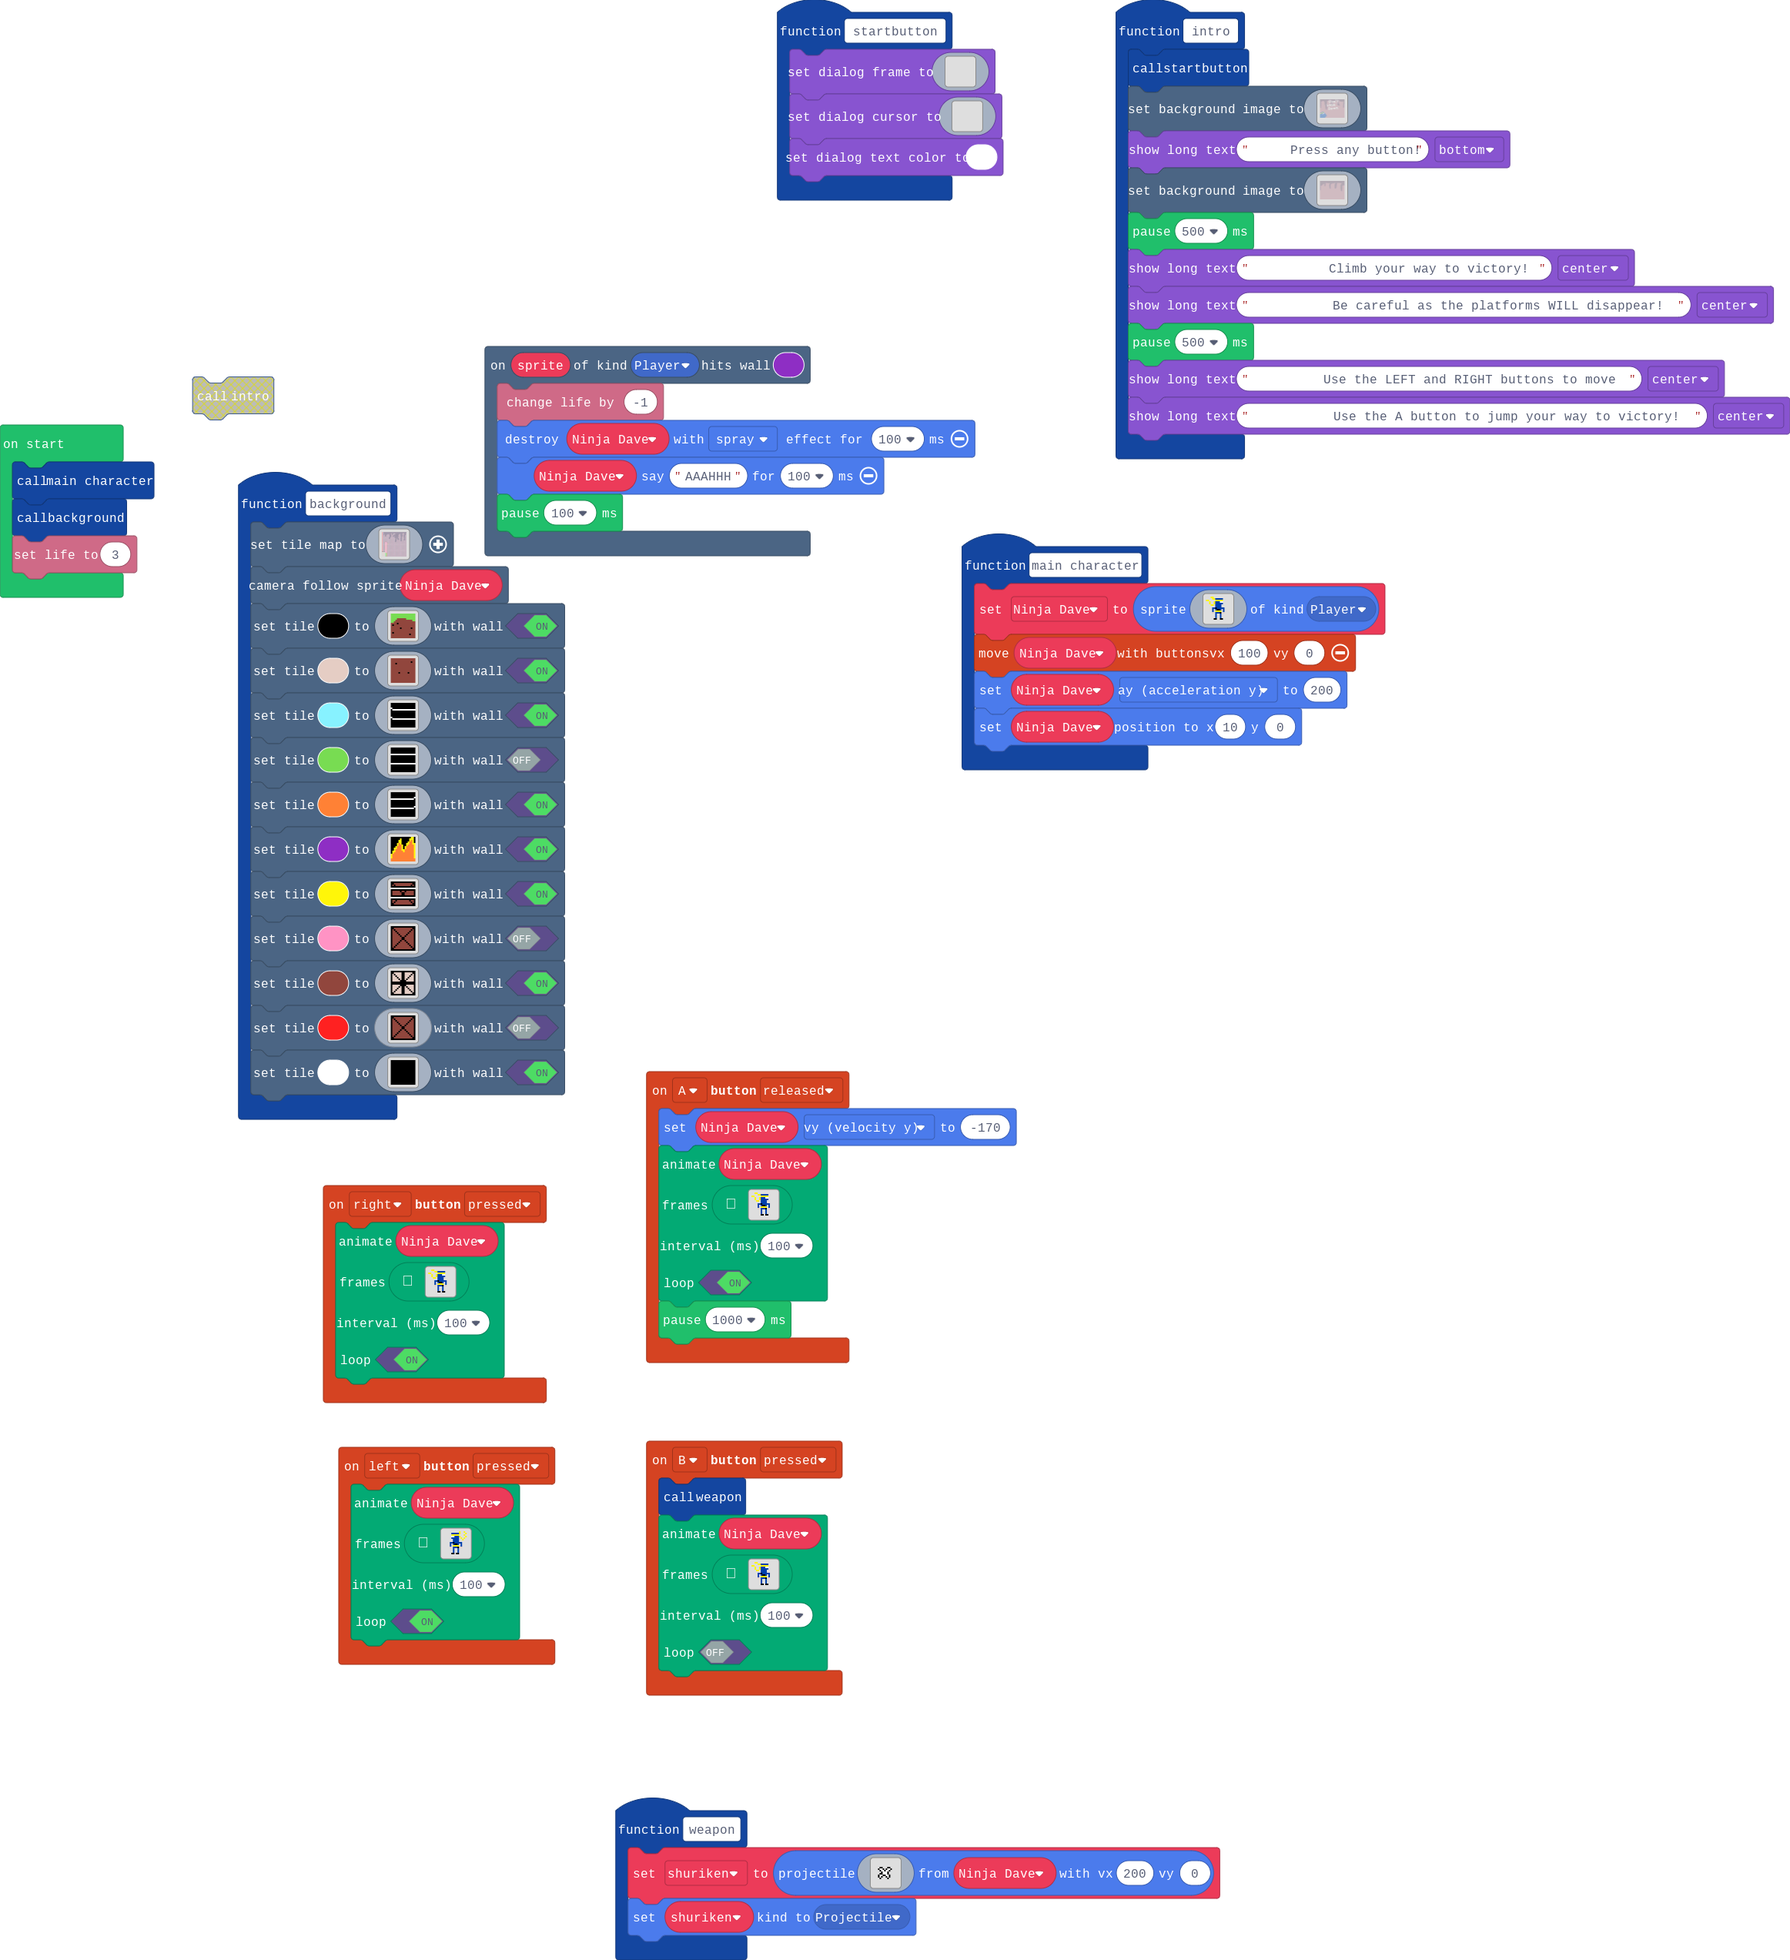
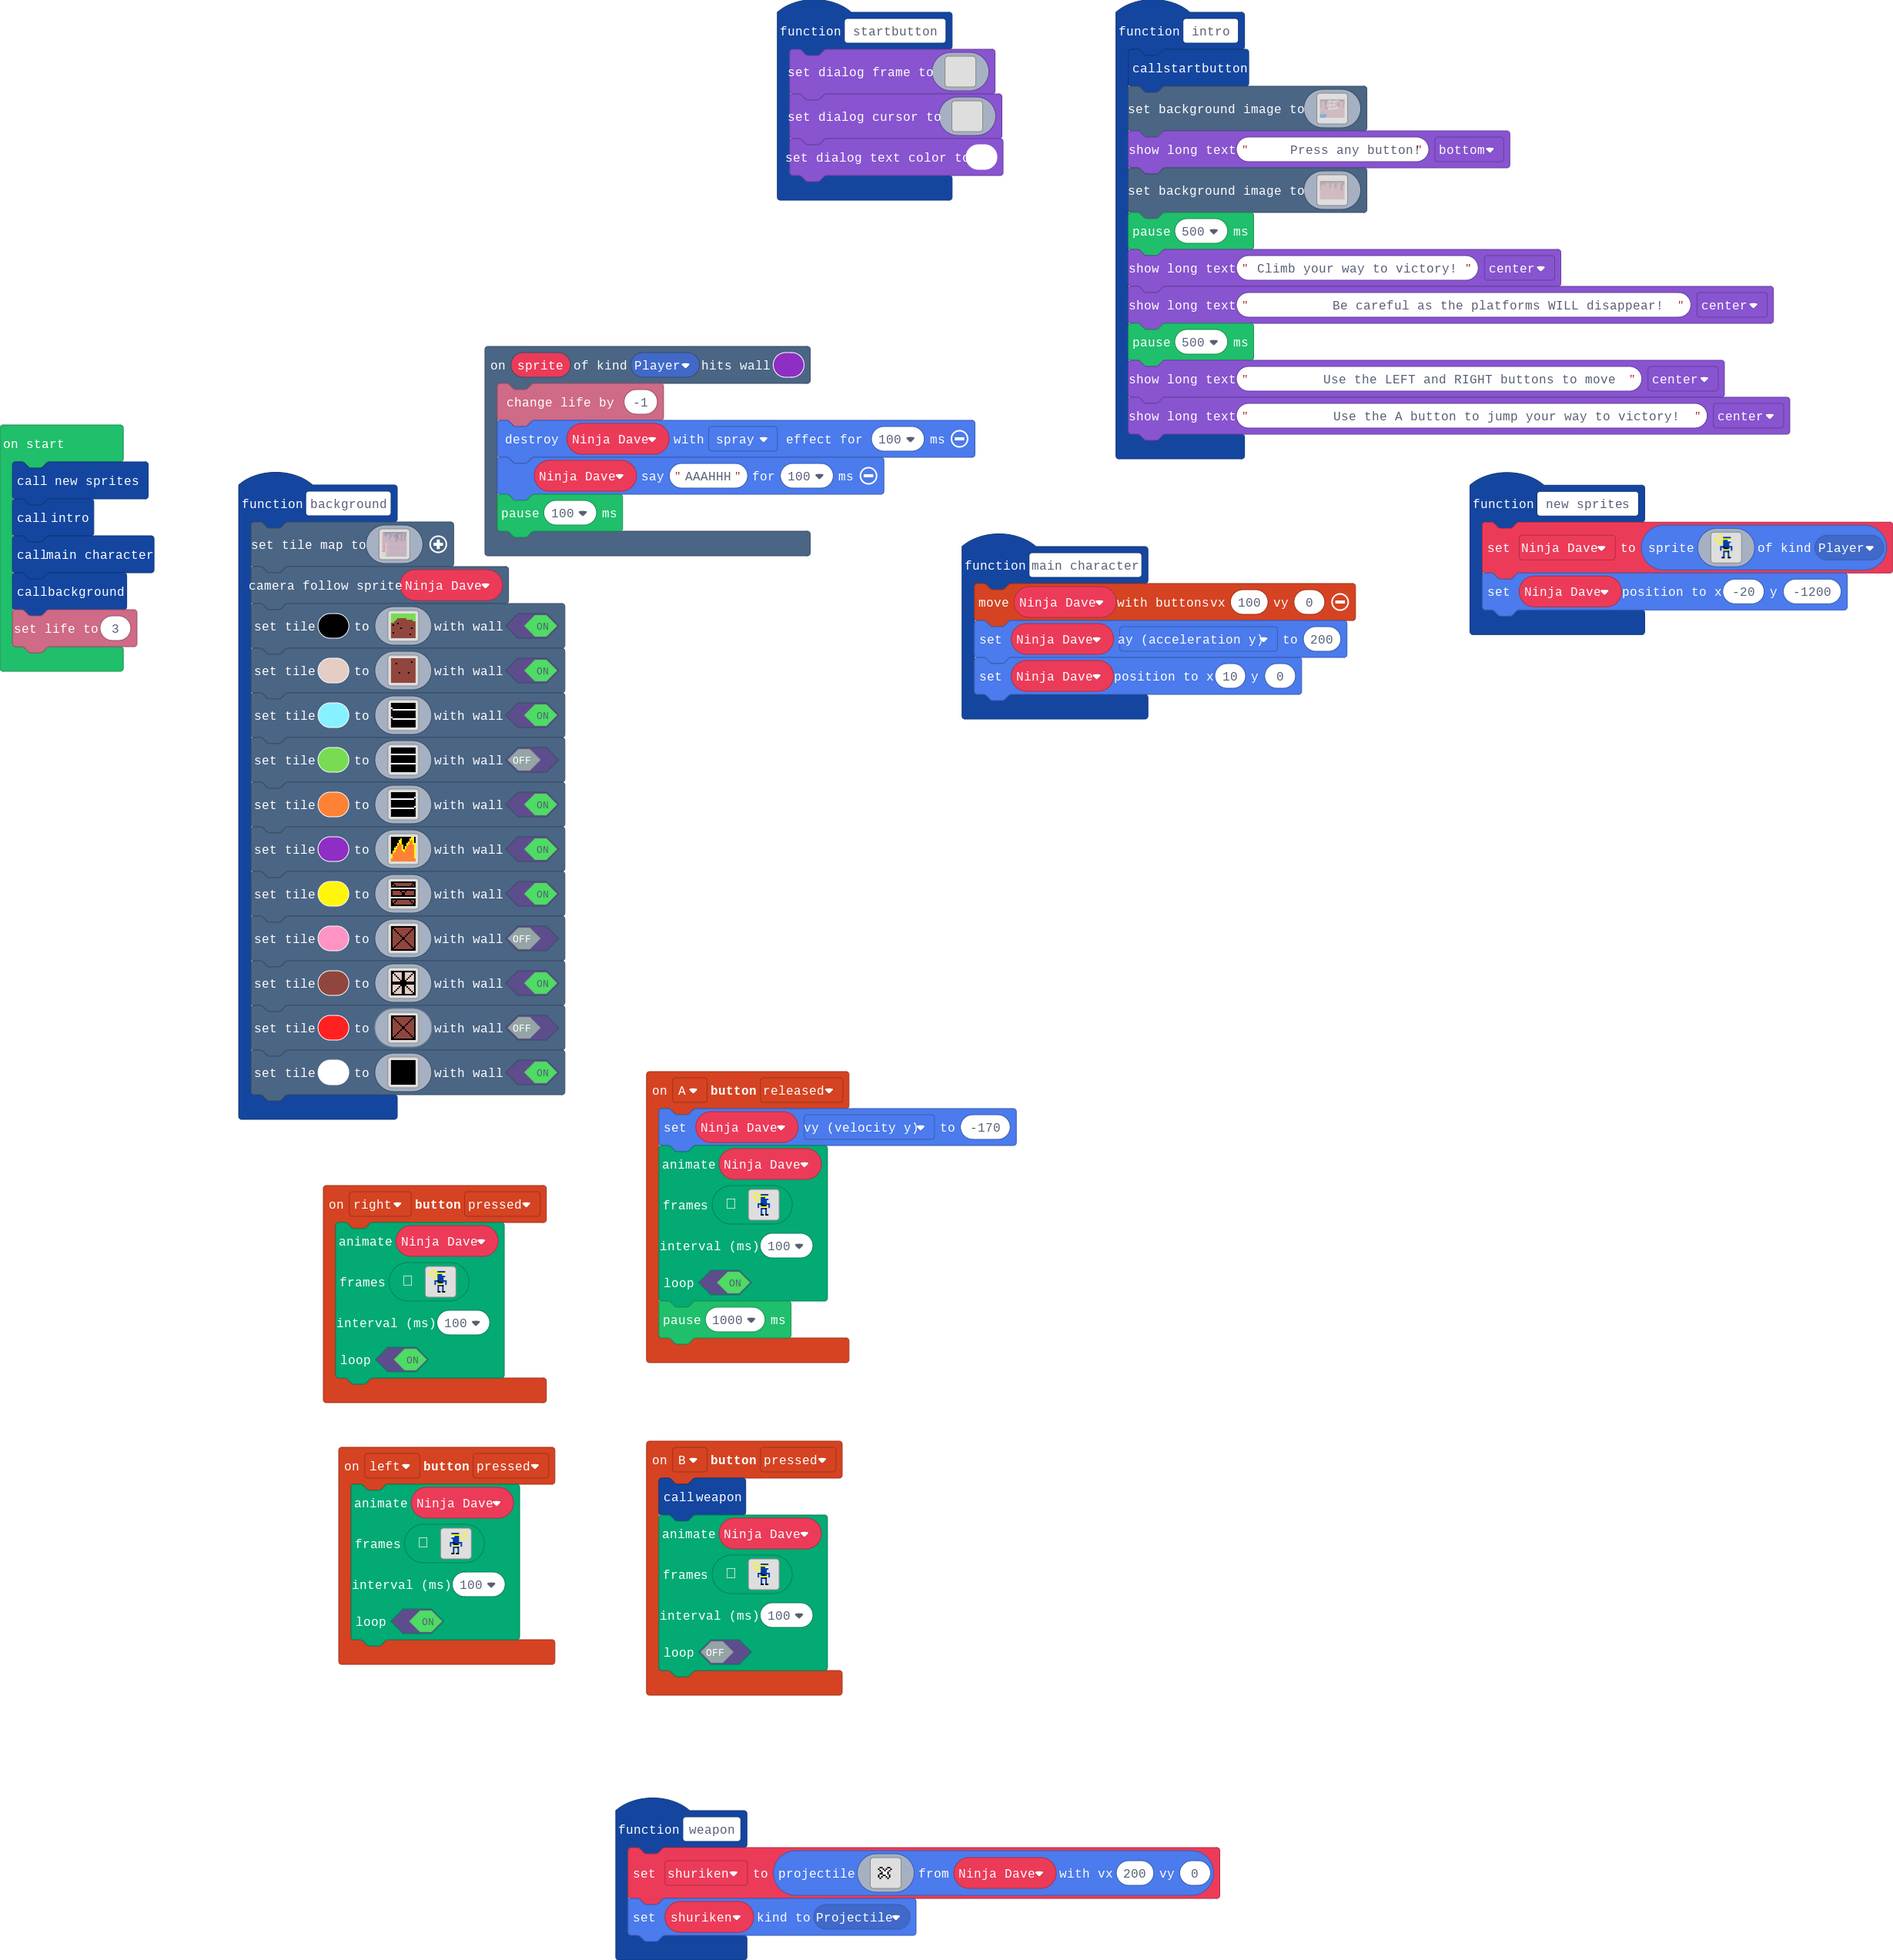
added title

diff --git a/main.ts b/main.ts
@@ -1,4 +1,4 @@
-function main_character () {
+function new_sprites () {
     Ninja_Dave = sprites.create(img`
 . . . 5 5 . . . . . . . . . . . 
 . . . . 5 5 8 8 8 8 8 . . . . . 
@@ -17,6 +17,9 @@ function main_character () {
 . . . . . f f . . f f . . . . . 
 . . . . . . . . . . . . . . . . 
 `, SpriteKind.Player)
+    Ninja_Dave.setPosition(-20, -1200)
+}
+function main_character () {
     controller.moveSprite(Ninja_Dave, 100, 0)
     Ninja_Dave.ay = 200
     Ninja_Dave.setPosition(10, 0)
@@ -383,7 +386,7 @@ b b b b b b b b b b b b b b b b b b b b b b b b b b b b b b b b b b b b b b b b 
 b b b b b b b b b b b b b b b b b b b b b b b b b b b b b b b b b b b b b b b b b b b b b b b b b b b b b b b b b b b b b b b b b b b b b b b b b b b b b b b b b b b b b b b b b b b b b b b b b b b b b b b b b b b b b b b b b b b b b b b b b b b b b b b b b b b b b b b b b b b b b b b b b b b b b b b b b b b b b b b b 
 `)
     pause(500)
-    game.showLongText("         Climb your way to victory!", DialogLayout.Center)
+    game.showLongText("Climb your way to victory!", DialogLayout.Center)
     game.showLongText("         Be careful as the platforms WILL disappear!", DialogLayout.Center)
     pause(500)
     game.showLongText("        Use the LEFT and RIGHT buttons to move", DialogLayout.Center)
@@ -1190,6 +1193,8 @@ controller.A.onEvent(ControllerButtonEvent.Released, function () {
 })
 let shuriken: Sprite = null
 let Ninja_Dave: Sprite = null
+new_sprites()
+intro()
 main_character()
 background()
 info.setLife(3)
